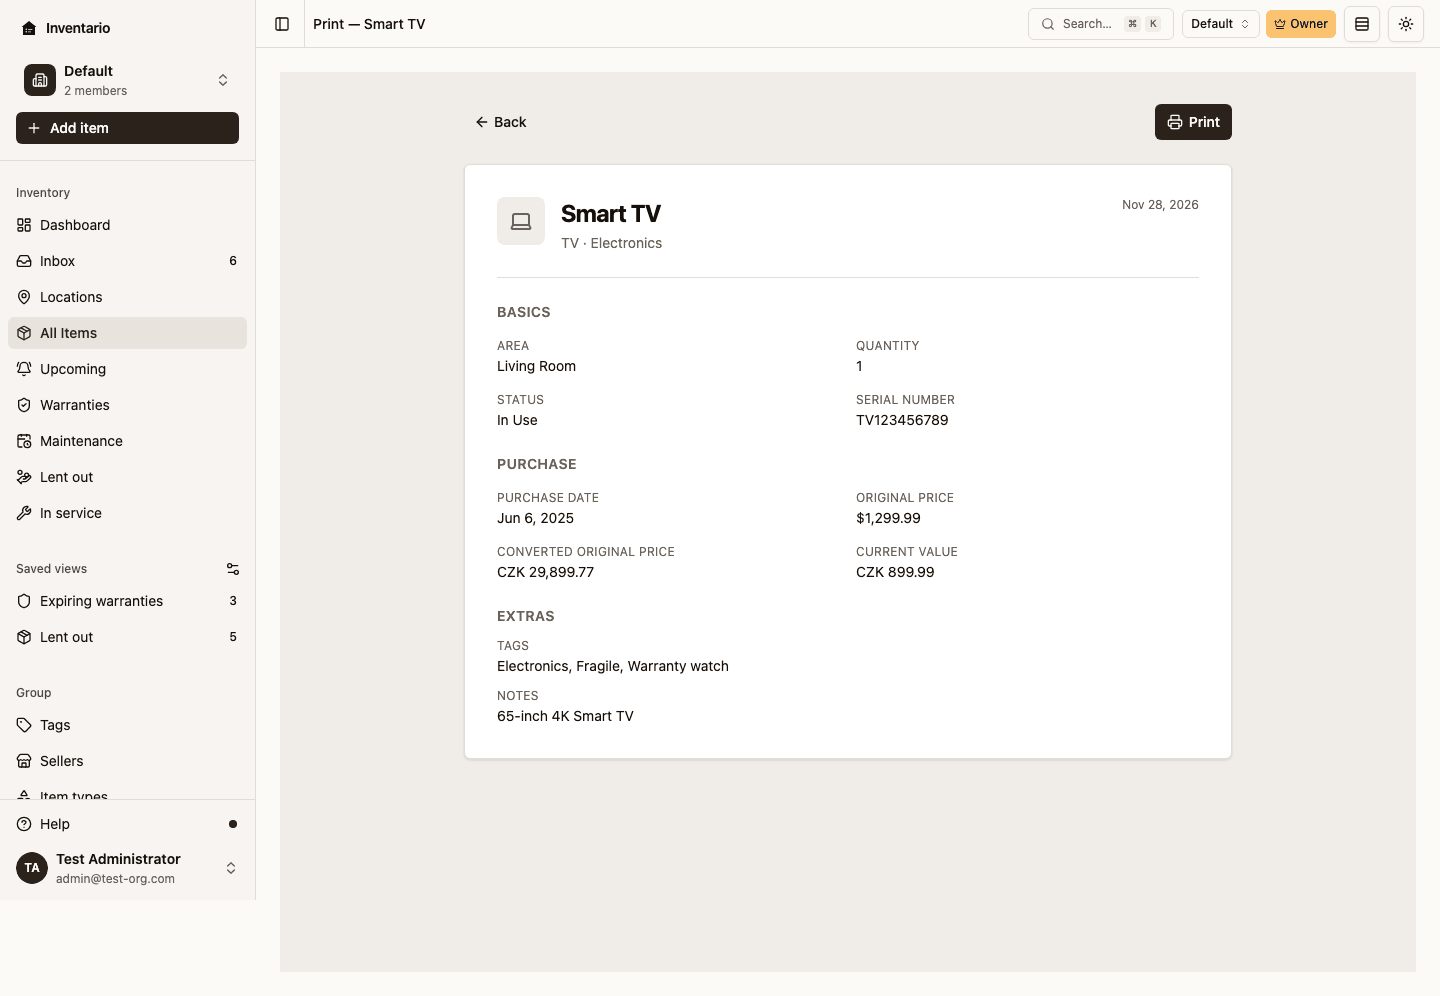
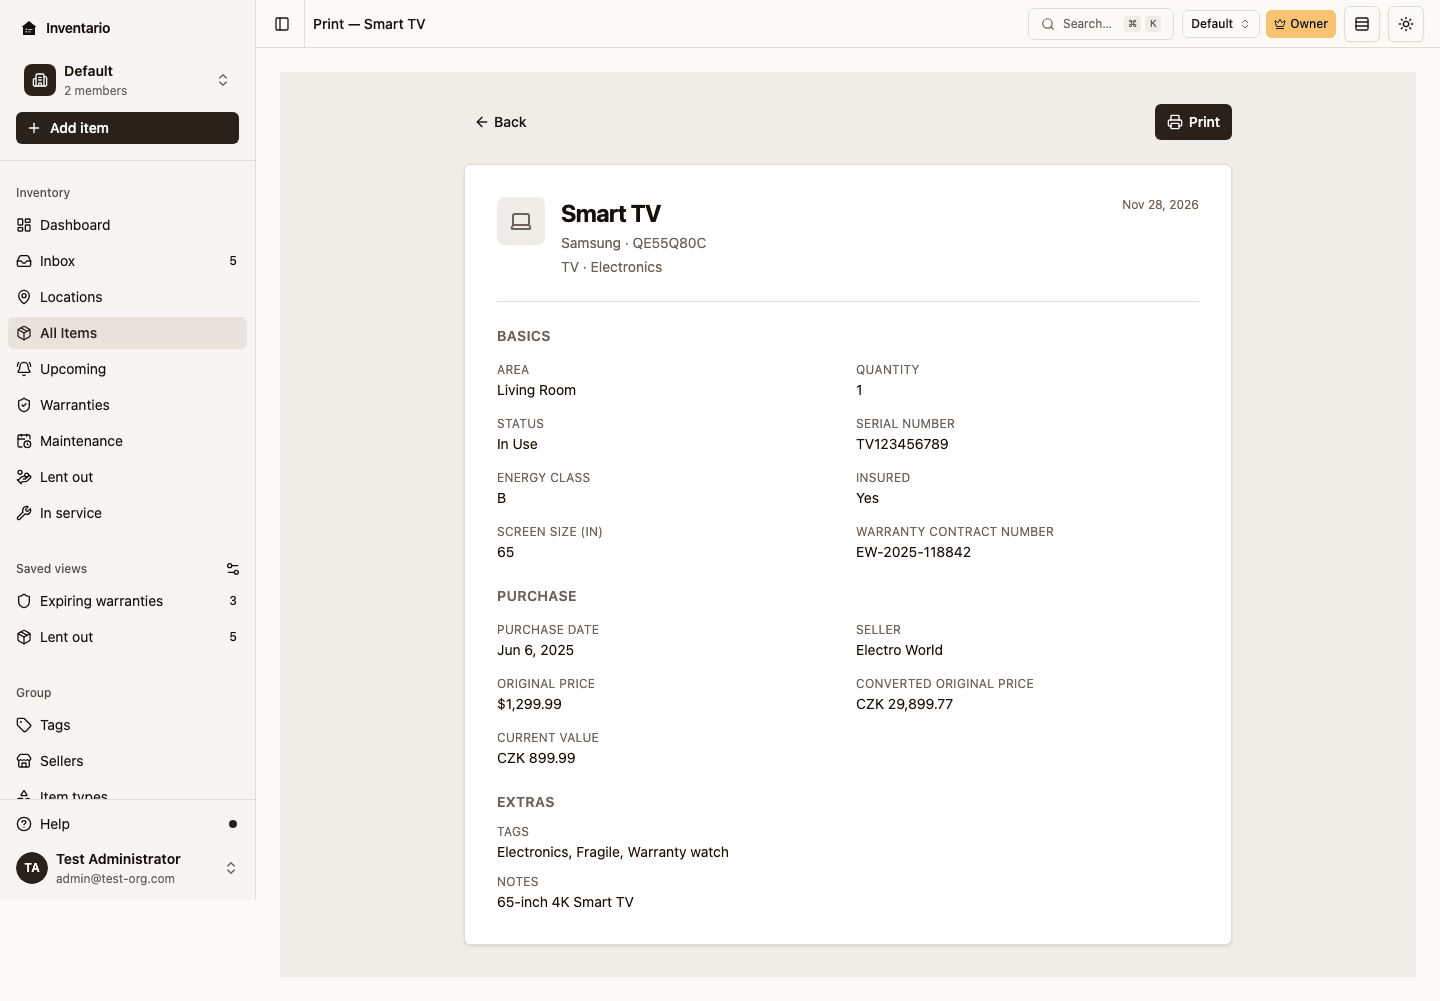
fix(ui): show brand, model, seller and custom fields in item print (#3086)
* fix(ui): show brand, model, seller and custom fields in item print

The item print view left out the brand, the model, the seller and the
custom fields, so a printed or saved copy carried less than the item page.
It now shows each of them when the item has a value, and waits for the
sellers and custom fields lists when the item uses them, so a print started
right away has them.

The header follows the item page, with a "brand · model" line under the
name. The mock has no single-item print page; the entry in the design
deviations log records the choice.

* docs(site): refresh the item print screenshot

Recaptured from a seeded memory:// server: the Smart TV now shows its brand, model, seller and custom fields.

diff --git a/frontend/src/pages/commodities/CommodityPrintPage.tsx b/frontend/src/pages/commodities/CommodityPrintPage.tsx
@@ -1,4 +1,4 @@
-import { useEffect } from "react"
+import { useEffect, type ReactNode } from "react"
 import { Link, useParams } from "react-router-dom"
 import { useTranslation } from "react-i18next"
 import { ArrowLeft, Printer } from "lucide-react"
@@ -7,12 +7,18 @@ import { Alert, AlertDescription, AlertTitle } from "@/components/ui/alert"
 import { Button } from "@/components/ui/button"
 import { Skeleton } from "@/components/ui/skeleton"
 import { RouteTitle } from "@/components/routing/RouteTitle"
+import { CustomFieldValue } from "@/components/customFields/CustomFieldValue"
 import { useAreas } from "@/features/areas/hooks"
+import { brandModelText } from "@/features/commodities/brand"
 import { useCommodity } from "@/features/commodities/hooks"
 import { formatPrice } from "@/features/commodities/price"
+import type { CustomFieldValues } from "@/features/customFields/api"
+import { useCustomFields } from "@/features/customFields/hooks"
+import { hasValue } from "@/features/customFields/values"
 import { useCurrentGroup } from "@/features/group/GroupContext"
 import { ITEM_TYPE_FALLBACK_ICON } from "@/features/itemTypes/icons"
 import { useItemTypeLookup } from "@/features/itemTypes/hooks"
+import { useSellers } from "@/features/sellers/hooks"
 import { useTagLabel } from "@/features/tags/hooks"
 import { formatCurrency, formatDate } from "@/lib/intl"
 
@@ -32,7 +38,11 @@ export function CommodityPrintPage() {
   const areas = useAreas({ enabled })
   const tagLabel = useTagLabel("commodity")
   const itemTypes = useItemTypeLookup()
+  const sellers = useSellers()
+  const customFields = useCustomFields()
   const commodity = detail.data?.commodity
+  const customValues = commodity?.custom_fields as CustomFieldValues | undefined
+  const shownCustomFields = (customFields.data ?? []).filter((f) => hasValue(customValues, f.id))
 
   useEffect(() => {
     if (!commodity?.name) return
@@ -45,7 +55,13 @@ export function CommodityPrintPage() {
   const detailHref =
     slug && id ? `/g/${encodeURIComponent(slug)}/commodities/${encodeURIComponent(id)}` : "#"
 
-  if (detail.isLoading) {
+  // The seller and the custom fields come from their own lists. Wait for the
+  // ones the item uses, so a print started right away has them.
+  const waitingForLists =
+    (!!commodity?.seller_id && sellers.isLoading) ||
+    (!!customValues && Object.keys(customValues).length > 0 && customFields.isLoading)
+
+  if (detail.isLoading || waitingForLists) {
     return (
       <div className="p-8 max-w-3xl mx-auto" data-testid="commodity-print-loading">
         <Skeleton className="h-8 w-64" />
@@ -73,6 +89,11 @@ export function CommodityPrintPage() {
   const purchaseCurrency = commodity.original_price_currency ?? groupCurrency
   const noValue = t("commodities:print.noPrice")
   const areaName = (areas.data ?? []).find((a) => a.id === commodity.area_id)?.name ?? noValue
+  const brandModel = brandModelText(commodity)
+  // Like the item page: a seller that cannot be found shows a dash.
+  const sellerName = commodity.seller_id
+    ? sellers.data?.find((s) => s.id === commodity.seller_id)?.name || noValue
+    : null
 
   return (
     <>
@@ -115,6 +136,14 @@ export function CommodityPrintPage() {
               </div>
               <div className="flex-1 min-w-0">
                 <h1 className="text-2xl font-bold tracking-tight">{commodity.name}</h1>
+                {brandModel ? (
+                  <p
+                    className="mt-1 text-sm text-muted-foreground"
+                    data-testid="commodity-print-brand-model"
+                  >
+                    {brandModel}
+                  </p>
+                ) : null}
                 <p className="mt-1 text-sm text-muted-foreground">
                   {commodity.short_name ? `${commodity.short_name} · ` : ""}
                   {itemType?.label ?? ""}
@@ -145,6 +174,22 @@ export function CommodityPrintPage() {
                 label={t("commodities:detail.fields.serialNumber")}
                 value={commodity.serial_number || noValue}
               />
+              {/* The custom fields the item has a value for, in the group's
+                  order, as on the item page. */}
+              {shownCustomFields.map((field) => (
+                <PrintRow
+                  key={field.id}
+                  label={field.name}
+                  value={
+                    <CustomFieldValue
+                      field={field}
+                      raw={customValues?.[field.id]}
+                      linkedItems={detail.data?.linkedItems}
+                    />
+                  }
+                  testId={`commodity-print-custom-field-${field.id}`}
+                />
+              ))}
             </section>
 
             <section className="print-section grid grid-cols-2 gap-4 mb-6">
@@ -159,6 +204,13 @@ export function CommodityPrintPage() {
                     : noValue
                 }
               />
+              {sellerName !== null ? (
+                <PrintRow
+                  label={t("commodities:detail.fields.seller")}
+                  value={sellerName}
+                  testId="commodity-print-seller"
+                />
+              ) : null}
               <PrintRow
                 label={t("commodities:detail.fields.originalPrice")}
                 value={formatPrice(
@@ -224,9 +276,9 @@ export function CommodityPrintPage() {
   )
 }
 
-function PrintRow({ label, value }: { label: string; value: string }) {
+function PrintRow({ label, value, testId }: { label: string; value: ReactNode; testId?: string }) {
   return (
-    <div className="flex flex-col gap-0.5">
+    <div className="flex flex-col gap-0.5" data-testid={testId}>
       <span className="text-xs uppercase tracking-wide text-muted-foreground">{label}</span>
       <span className="text-sm">{value}</span>
     </div>

diff --git a/frontend/src/pages/commodities/__tests__/CommodityPrintPage.test.tsx b/frontend/src/pages/commodities/__tests__/CommodityPrintPage.test.tsx
@@ -8,7 +8,13 @@ import { CommodityPrintPage } from "@/pages/commodities/CommodityPrintPage"
 import { GroupProvider } from "@/features/group/GroupContext"
 import { renderWithProviders } from "@/test/render"
 import { server } from "@/test/server"
-import { areaHandlers, commodityHandlers, groupHandlers } from "@/test/handlers"
+import {
+  areaHandlers,
+  commodityHandlers,
+  customFieldHandlers,
+  groupHandlers,
+  sellerHandlers,
+} from "@/test/handlers"
 import { setAccessToken, clearAuth } from "@/lib/auth-storage"
 import { __resetGroupContextForTests } from "@/lib/group-context"
 import { __resetHttpForTests } from "@/lib/http"
@@ -52,6 +58,15 @@ beforeEach(() => {
   __resetHttpForTests()
 })
 
+// The lists every print reads: the group, its areas and its sellers.
+function listHandlers() {
+  return [
+    ...groupHandlers.list(groupFixture),
+    ...areaHandlers.list(SLUG, areaFixture),
+    ...sellerHandlers.list(SLUG, [{ id: "s1", name: "Apple Store" }]),
+  ]
+}
+
 function renderPrint() {
   setAccessToken("good-token")
   return renderWithProviders({
@@ -71,11 +86,7 @@ function renderPrint() {
 
 describe("<CommodityPrintPage />", () => {
   it("renders the print sections with the commodity data", async () => {
-    server.use(
-      ...groupHandlers.list(groupFixture),
-      ...areaHandlers.list(SLUG, areaFixture),
-      ...commodityHandlers.detail(SLUG, ID, commodityFixture)
-    )
+    server.use(...listHandlers(), ...commodityHandlers.detail(SLUG, ID, commodityFixture))
     renderPrint()
     expect(await screen.findByTestId("page-commodity-print")).toBeInTheDocument()
     expect(screen.getByRole("heading", { name: /macbook pro 16/i })).toBeInTheDocument()
@@ -83,6 +94,47 @@ describe("<CommodityPrintPage />", () => {
     expect(screen.getByText(/\$2,400\.00/)).toBeInTheDocument()
     expect(screen.getByText(/daily driver/i)).toBeInTheDocument()
     expect(screen.getByTestId("commodity-print-header-date").textContent).toMatch(/\b20\d{2}\b/)
+  })
+
+  it("shows the brand, model, seller and custom fields the item has", async () => {
+    server.use(
+      ...listHandlers(),
+      ...customFieldHandlers.list(SLUG, [
+        customFieldHandlers.field({ id: "cf1", name: "Color" }),
+        customFieldHandlers.field({ id: "cf2", name: "Insured", type: "boolean" }),
+        customFieldHandlers.field({ id: "cf3", name: "Room" }),
+      ]),
+      ...commodityHandlers.detail(SLUG, ID, {
+        ...commodityFixture,
+        attributes: {
+          ...commodityFixture.attributes,
+          brand: "Apple",
+          model: "A2991",
+          seller_id: "s1",
+          custom_fields: { cf1: "Space Black", cf2: true },
+        },
+      })
+    )
+    renderPrint()
+    expect(await screen.findByTestId("commodity-print-brand-model")).toHaveTextContent(
+      "Apple · A2991"
+    )
+    expect(screen.getByTestId("commodity-print-seller")).toHaveTextContent("Apple Store")
+    expect(screen.getByTestId("commodity-print-custom-field-cf1")).toHaveTextContent(
+      "ColorSpace Black"
+    )
+    expect(screen.getByTestId("commodity-print-custom-field-cf2")).toHaveTextContent("InsuredYes")
+    // A field without a value for this item is left out.
+    expect(screen.queryByTestId("commodity-print-custom-field-cf3")).toBeNull()
+  })
+
+  it("leaves out the brand, model and seller of an item without them", async () => {
+    server.use(...listHandlers(), ...commodityHandlers.detail(SLUG, ID, commodityFixture))
+    renderPrint()
+    expect(await screen.findByTestId("page-commodity-print")).toBeInTheDocument()
+    expect(screen.queryByTestId("commodity-print-brand-model")).toBeNull()
+    expect(screen.queryByTestId("commodity-print-seller")).toBeNull()
+    expect(screen.queryByText(/seller/i)).toBeNull()
   })
 
   it("calls window.print when the Print button is clicked", async () => {
@@ -93,22 +145,14 @@ describe("<CommodityPrintPage />", () => {
       writable: true,
       value: printSpy,
     })
-    server.use(
-      ...groupHandlers.list(groupFixture),
-      ...areaHandlers.list(SLUG, areaFixture),
-      ...commodityHandlers.detail(SLUG, ID, commodityFixture)
-    )
+    server.use(...listHandlers(), ...commodityHandlers.detail(SLUG, ID, commodityFixture))
     renderPrint()
     await user.click(await screen.findByTestId("commodity-print-trigger"))
     expect(printSpy).toHaveBeenCalledTimes(1)
   })
 
   it("has no axe violations", async () => {
-    server.use(
-      ...groupHandlers.list(groupFixture),
-      ...areaHandlers.list(SLUG, areaFixture),
-      ...commodityHandlers.detail(SLUG, ID, commodityFixture)
-    )
+    server.use(...listHandlers(), ...commodityHandlers.detail(SLUG, ID, commodityFixture))
     const { container } = renderPrint()
     await screen.findByTestId("page-commodity-print")
     expect(await axe(container)).toHaveNoViolations()

diff --git a/devdocs/frontend/design-deviations.md b/devdocs/frontend/design-deviations.md
@@ -1901,6 +1901,15 @@ Do not edit prior entries except to fix factual errors (typos, wrong issue numbe
 - **Approved by**: user (explicit) — pre-approved for #2813 by the 2026-11-24 goal to implement the open enhancements
 - **Reversion plan**: Follow the mock once `inventario-design` shows coverage on the report cards.
 
+#### 2026-11-28 — Item print page: brand, model, seller and custom fields
+
+- **Issue/PR**: PR (fix for the item print view, before v0.3.0)
+- **Mock**: the mock has no single-item print page. Its print layout, [`design-mocks/src/views/InsuranceReportView.tsx`](../../design-mocks/src/views/InsuranceReportView.tsx), titles the item `{brand} {name}` with the model below and has no seller or custom fields.
+- **Reality**: `frontend/src/pages/commodities/CommodityPrintPage.tsx` keeps its own layout and adds what the item page shows: a "brand · model" line under the name (`brandModelText`, as in the item page header), a Seller row after Purchase date in the Purchase section, and one row per custom field the item has a value for at the end of Basics, in the group's order, formatted by `CustomFieldValue`. A brand, model, seller or custom field the item does not have is left out. A seller that cannot be found shows a dash, as on the item page. The page waits for the sellers and custom fields lists when the item uses them, so a print started right away has the values.
+- **Why**: not present in mock. The print page has to carry what the item page shows, and its header follows the item page rather than the insurance report so the two pages of one item read the same.
+- **Approved by**: agent-suggested; awaiting maintainer confirmation in the PR review
+- **Reversion plan**: Follow the mock if `inventario-design` adds a single-item print page.
+
 ---
 
 ## #1966 — Commodity Files tab: unified grid/list, diverging from the mock

diff --git a/docs/site/src/content/docs/items.md b/docs/site/src/content/docs/items.md
@@ -537,14 +537,13 @@ The header also has:
 
 - **Edit** — turns the details into an edit form (see
   [Edit an item](#edit-an-item)).
-- **Insurance Report** and **Print** — printable views (see [Reports](../reports/)).
+- **Insurance Report** and **Print** — printable views (see [Reports](../reports/)
+  and [Print an item](#print-an-item)).
 - **Print label** (the QR code button) — a label for this item (see
   [Asset IDs and QR labels](#asset-ids-and-qr-labels)).
 - **Delete** — moves the item, with the files attached only to it, to the
   [Trash](../trash/), where you can restore it for 30 days. A file that is also
   attached to another item, location, or area stays there.
-
-![A printable insurance report view of an item ready to print or save as PDF](../../assets/screenshots/item-print.png)
 
 A **History** section lists every change — who, when, and what — including
 status changes, price changes, moves, cover-photo changes, and a change of
@@ -556,6 +555,17 @@ fields it changed, such as the name or the type.
 Lending, service, and supplies tracking are only available on single-unit
 items, not bundles.
 :::
+
+### Print an item
+
+**Print** opens the item on one printable page: its name with the brand and
+model, the basics (area, quantity, status, serial number, and every custom field
+the item has a value for), the purchase details with the seller, and its tags,
+other serial and part numbers, and notes. A brand, model, seller or custom field
+the item doesn't have is left out. Click **Print** at the top to print the page
+or save it as a PDF; the buttons don't appear on paper.
+
+![The print view of an item with its brand and model, basics with custom fields, purchase details with the seller, and extras](../../assets/screenshots/item-print.png)
 
 ## Edit an item
 

diff --git a/devdocs/frontend/design/18-print-and-export.md b/devdocs/frontend/design/18-print-and-export.md
@@ -153,14 +153,16 @@ Print-specific Tailwind utilities (built-in in v4):
 
 The commodity print page includes:
 
-- Title, location/area breadcrumb.
-- Vendor, purchase date, current value, currency.
-- Status, status history (last 3).
-- Warranty status + dates.
-- Tag list.
-- All attached files as 3-column thumbnail grid.
-- A small footer with print date + the route URL (so the printed copy
-  references back to the source).
+- A header with the type icon, the name, the "brand · model" line, the
+  short name and type, and the print date.
+- Basics: area, quantity, status, serial number, then each custom field
+  the item has a value for, in the group's order.
+- Purchase: purchase date, seller, original price, converted price and
+  current value.
+- Extras: tags, extra serial numbers, part numbers and notes.
+
+A brand, model, seller, custom field or Extras row the item does not
+have is left out; the other empty values print as a dash.
 
 What it doesn't include:
 

diff --git a/CHANGELOG.md b/CHANGELOG.md
@@ -763,6 +763,9 @@ in [the v0.3.0 release notes](.github/release-notes/v0.3.0.md).
 
 ### Fixed
 
+- The print view of an item shows its brand and model, its seller and the
+  custom fields it has a value for, as the item page does. Values the item
+  doesn't have are left out.
 - The **Active sessions**, **Login history** and **API tokens** pages keep the
   active group. The sidebar showed "Select a group" with empty sections there,
   and the rows under **Privacy & security** in Settings opened these pages
